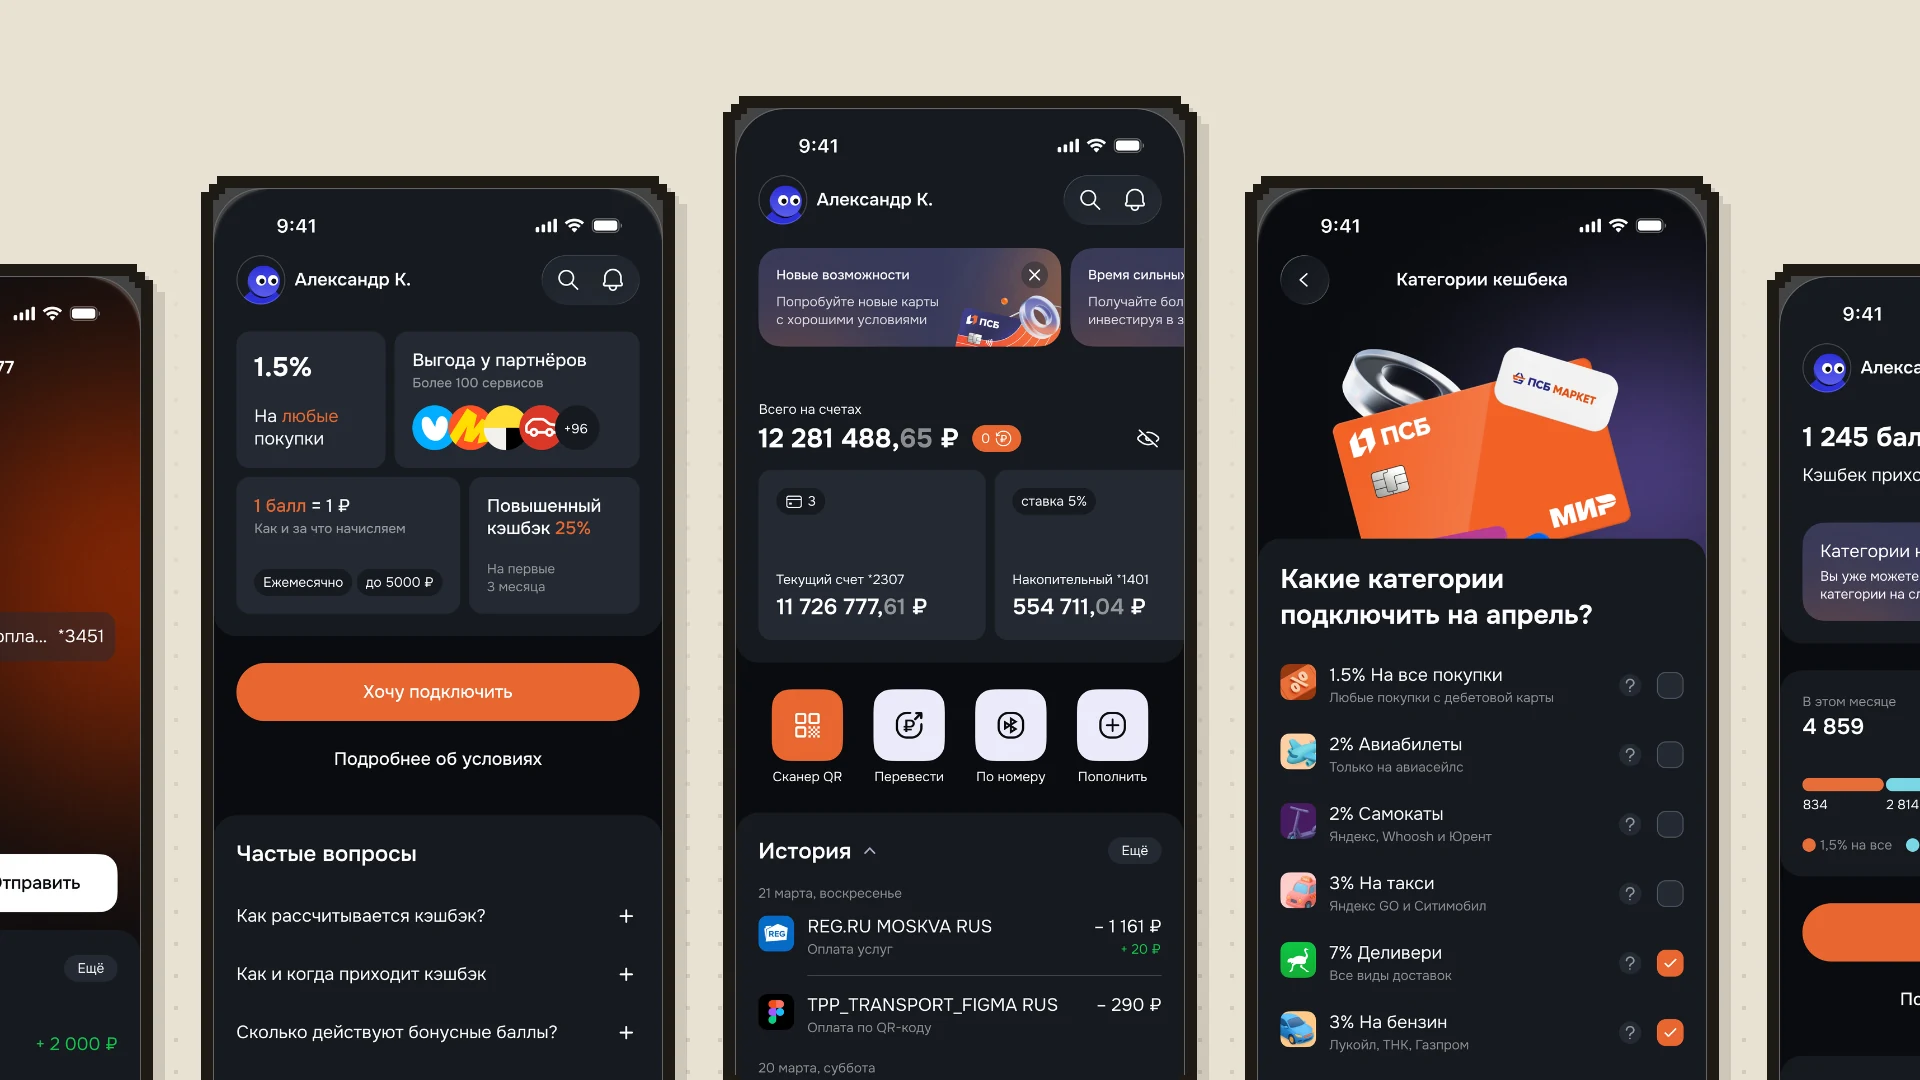
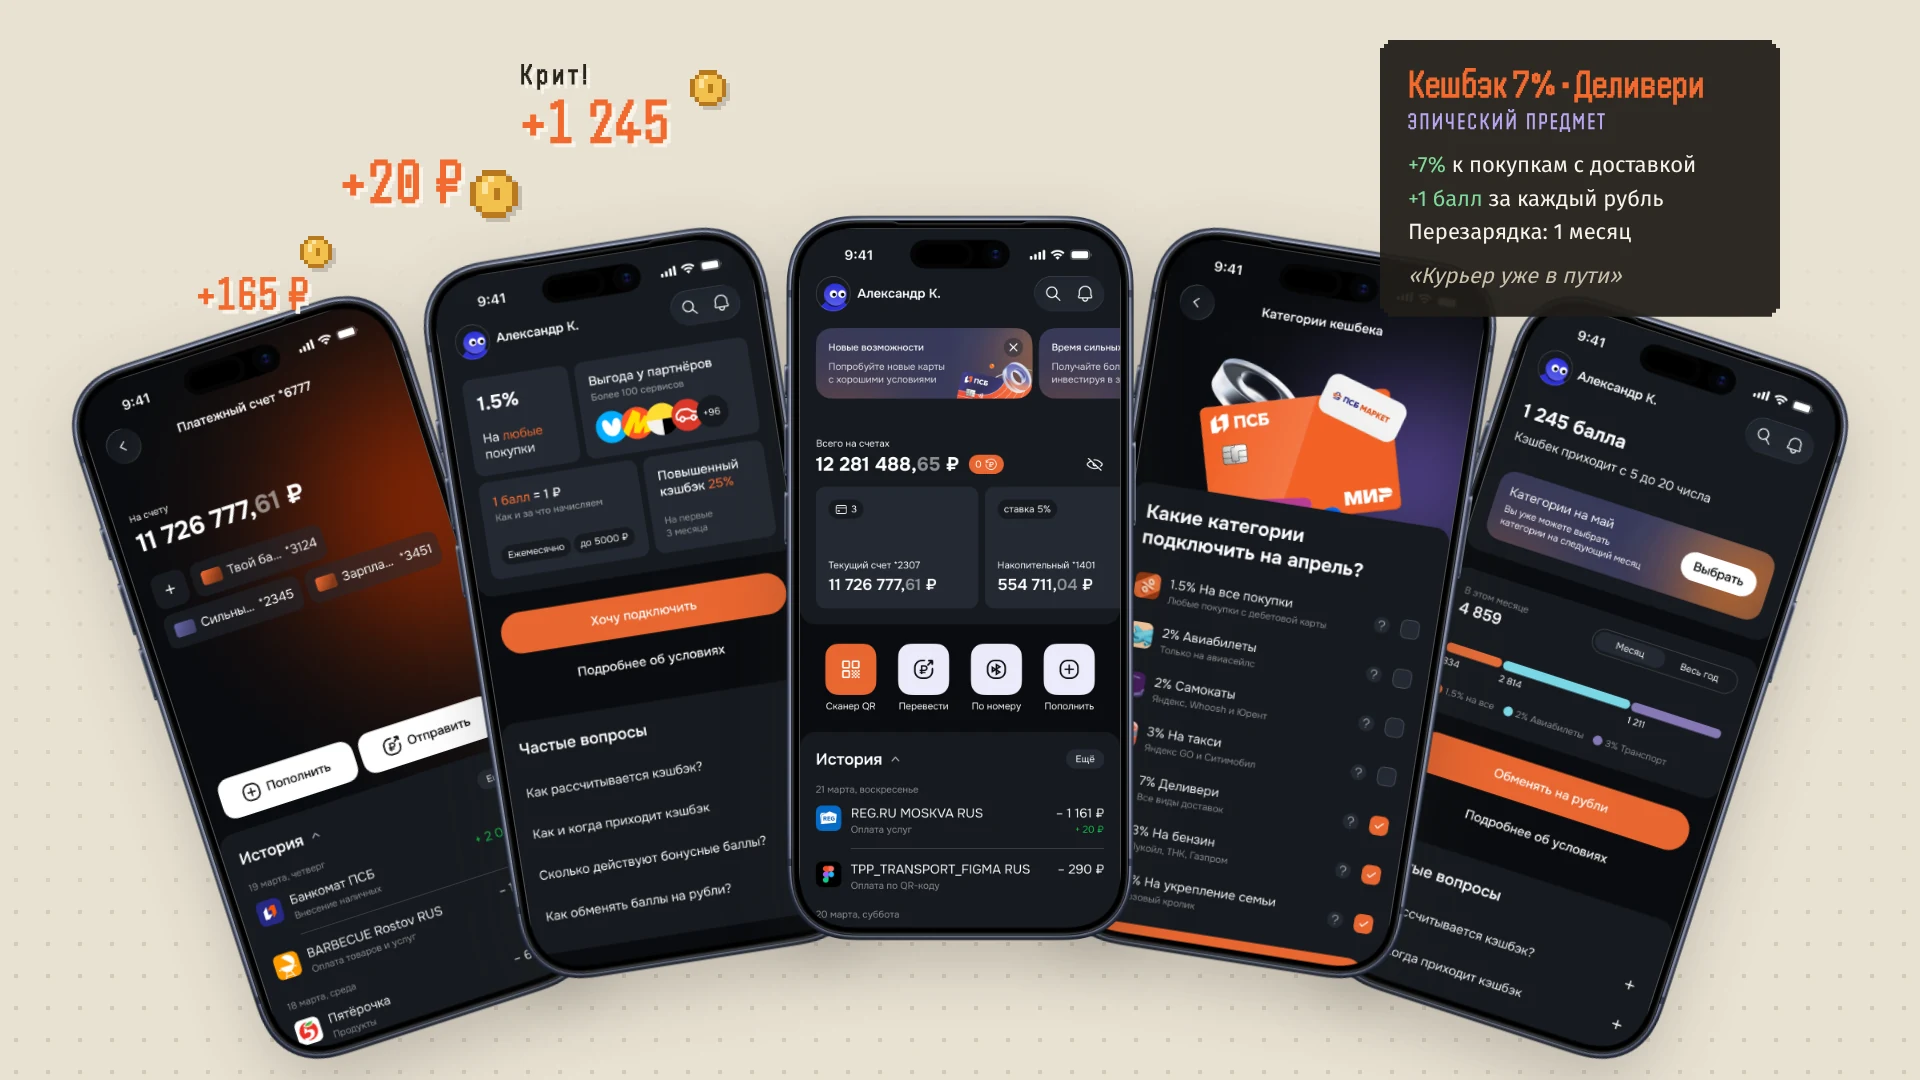
Redo the PSB cover as a fan of iPhone 17 Pro mockups
Screens sit in the iPhone 17 Pro body from the PSB Figma file and fan out
around a shared pivot. Cashback drops like MMORPG loot: floating +₽ numbers,
pixel coins and an item tooltip in the site's dark dialog style.

Claude-Session: https://claude.ai/code/session_019BMb4R2areoKUEhfSjMSAo

diff --git a/tools/case-covers/psb.html b/tools/case-covers/psb.html
@@ -4,22 +4,32 @@
   Render: open this file in a browser at a 1920×1080 viewport, take a screenshot and save it
   as WebP (quality ~88), e.g. Playwright page.screenshot() + any converter.
   Screens: frames from the "mockup for claude" section of the PSB Figma file, cropped to the
-  first 874pt of each frame and exported at 2x (tools/case-covers/psb/*.png).
+  first 874pt of each frame and exported at 2x (tools/case-covers/psb/*.png). The iPhone 17 Pro
+  body is the hidden "bezel" layer from the same file (450×920pt, screen inset 24/23pt).
+  Joke: cashback drops like loot in an MMORPG — floating "+₽" numbers, pixel coins and an item
+  tooltip in the site's dark dialog style.
   Colours mirror src/styles/tokens/colors.css. The card zooms the cover on hover,
   so keep the key content away from the edges.
 -->
 <html lang="ru">
   <head>
     <meta charset="utf-8" />
+    <link
+      rel="stylesheet"
+      href="https://fonts.googleapis.com/css2?family=Fira+Sans:wght@400;500&family=Handjet:wght@600;700&display=block"
+    />
     <style>
       :root {
-        --paper-0: #e7e0d0;
         --paper-3: #e8e1d2;
-        --paper-4: #ddd5c3;
+        --paper-2: #f7f3ea;
         --line-2: #cfc6b2;
         --ink-1: #29251e;
-        --bezel: #1d1a15;
-        --s: 8px; /* pixel corner step of the device body */
+        --dialog: rgba(33, 30, 24, 0.94);
+        --gold: #f2c14e;
+        --gold-dark: #b7791f;
+        --gold-light: #fbe39a;
+        --psb: #f26a2e;
+        --s: 4px; /* pixel corner step */
       }
       * {
         box-sizing: border-box;
@@ -71,68 +81,185 @@
           0 calc(100% - var(--s) * 2)
         );
       }
-      .row {
-        position: absolute;
-        left: 50%;
-        top: 0;
-        display: flex;
-        gap: 48px;
-        transform: translateX(-50%);
-      }
+
+      /* Fan: every phone shares one pivot far below the frame */
       .phone {
-        position: relative;
-        flex: none;
-        width: 474px;
-        /* Hard pixel shadow: the stepped silhouette offset down-right, no blur */
-        filter: drop-shadow(12px 12px 0 rgb(41 37 30 / 0.14));
+        --k: 0.8; /* scale from Figma points */
+        position: absolute;
+        left: calc(960px - 225px * var(--k));
+        top: 210px;
+        width: calc(450px * var(--k));
+        height: calc(920px * var(--k));
+        transform-origin: 50% 2400px;
+        transform: rotate(var(--a));
+        filter: drop-shadow(0 24px 32px rgb(41 37 30 / 0.22));
       }
-      .body {
-        position: relative;
-        padding: 12px;
-        background: var(--bezel);
-      }
-      .screen {
-        --s: 6px;
-        display: block;
-        width: 450px;
-        height: 979px; /* 402×874 screen at 1.12 */
+      .phone .screen {
+        position: absolute;
+        left: calc(24px * var(--k));
+        top: calc(23px * var(--k));
+        width: calc(402px * var(--k));
+        height: calc(874px * var(--k));
+        border-radius: calc(60px * var(--k));
         object-fit: cover;
         object-position: top;
       }
-      .phone:nth-child(1) {
-        margin-top: 264px;
+      .phone .body {
+        position: absolute;
+        inset: 0;
+        width: 100%;
+        height: 100%;
       }
-      .phone:nth-child(2) {
-        margin-top: 176px;
+      .p1 {
+        --a: -18deg;
+        z-index: 1;
       }
-      .phone:nth-child(3) {
-        margin-top: 96px;
+      .p2 {
+        --a: -9deg;
+        z-index: 2;
       }
-      .phone:nth-child(4) {
-        margin-top: 176px;
+      .p3 {
+        --a: 0deg;
+        z-index: 3;
       }
-      .phone:nth-child(5) {
-        margin-top: 264px;
+      .p4 {
+        --a: 9deg;
+        z-index: 2;
+      }
+      .p5 {
+        --a: 18deg;
+        z-index: 1;
+      }
+
+      /* Loot: floating numbers, like damage text over a game world */
+      .float {
+        position: absolute;
+        z-index: 5;
+        font:
+          700 64px/1 'Handjet',
+          monospace;
+        letter-spacing: 0.02em;
+        color: var(--psb);
+        text-shadow: 4px 4px 0 var(--paper-2);
+      }
+      .float small {
+        display: block;
+        font-size: 30px;
+        letter-spacing: 0.12em;
+        color: var(--ink-1);
+      }
+      .coin {
+        position: absolute;
+        z-index: 5;
+        width: 48px;
+        height: 48px;
+        filter: drop-shadow(4px 4px 0 rgb(41 37 30 / 0.18));
+      }
+
+      /* Item tooltip in the site's dialog style */
+      .tooltip {
+        position: absolute;
+        z-index: 6;
+        left: 1380px;
+        top: 40px;
+        width: 400px;
+        padding: 24px 28px 26px;
+        background: var(--dialog);
+        color: var(--paper-2);
+        font:
+          400 22px/1.35 'Fira Sans',
+          sans-serif;
+      }
+      .tooltip .name {
+        font:
+          700 40px/1 'Handjet',
+          monospace;
+        color: var(--psb);
+      }
+      .tooltip .rarity {
+        margin-top: 6px;
+        font:
+          600 24px/1 'Handjet',
+          monospace;
+        letter-spacing: 0.1em;
+        text-transform: uppercase;
+        color: #b9a6f2;
+      }
+      .tooltip ul {
+        margin: 16px 0 0;
+        padding: 0;
+        list-style: none;
+      }
+      .tooltip li + li {
+        margin-top: 4px;
+      }
+      .tooltip .plus {
+        color: #7fd99a;
+      }
+      .tooltip .flavor {
+        margin-top: 14px;
+        font-style: italic;
+        color: #c9bfab;
       }
     </style>
   </head>
   <body>
-    <div class="row">
-      <div class="phone">
-        <div class="body px"><img class="screen px" src="psb/account.png" alt="" /></div>
-      </div>
-      <div class="phone">
-        <div class="body px"><img class="screen px" src="psb/cb-off.png" alt="" /></div>
-      </div>
-      <div class="phone">
-        <div class="body px"><img class="screen px" src="psb/main.png" alt="" /></div>
-      </div>
-      <div class="phone">
-        <div class="body px"><img class="screen px" src="psb/cb-connect.png" alt="" /></div>
-      </div>
-      <div class="phone">
-        <div class="body px"><img class="screen px" src="psb/cb-on.png" alt="" /></div>
-      </div>
+    <div class="phone p1">
+      <img class="screen" src="psb/account.png" alt="" />
+      <img class="body" src="psb/iphone-17-pro.png" alt="" />
     </div>
+    <div class="phone p2">
+      <img class="screen" src="psb/cb-off.png" alt="" />
+      <img class="body" src="psb/iphone-17-pro.png" alt="" />
+    </div>
+    <div class="phone p3">
+      <img class="screen" src="psb/main.png" alt="" />
+      <img class="body" src="psb/iphone-17-pro.png" alt="" />
+    </div>
+    <div class="phone p4">
+      <img class="screen" src="psb/cb-connect.png" alt="" />
+      <img class="body" src="psb/iphone-17-pro.png" alt="" />
+    </div>
+    <div class="phone p5">
+      <img class="screen" src="psb/cb-on.png" alt="" />
+      <img class="body" src="psb/iphone-17-pro.png" alt="" />
+    </div>
+
+    <div class="float" style="left: 340px; top: 150px">+20 ₽</div>
+    <div class="float" style="left: 196px; top: 270px; font-size: 48px">+165 ₽</div>
+    <div class="float" style="left: 520px; top: 60px"><small>Крит!</small>+1 245</div>
+
+    <svg class="coin" style="left: 470px; top: 170px" viewBox="0 0 8 8"><use href="#coin" /></svg>
+    <svg class="coin" style="left: 300px; top: 236px; width: 32px; height: 32px" viewBox="0 0 8 8">
+      <use href="#coin" />
+    </svg>
+    <svg class="coin" style="left: 690px; top: 70px; width: 36px; height: 36px" viewBox="0 0 8 8">
+      <use href="#coin" />
+    </svg>
+
+    <div class="tooltip px">
+      <div class="name">Кешбэк 7% · Деливери</div>
+      <div class="rarity">Эпический предмет</div>
+      <ul>
+        <li><span class="plus">+7%</span> к покупкам с доставкой</li>
+        <li><span class="plus">+1 балл</span> за каждый рубль</li>
+        <li>Перезарядка: 1 месяц</li>
+      </ul>
+      <div class="flavor">«Курьер уже в пути»</div>
+    </div>
+
+    <svg width="0" height="0" style="position: absolute">
+      <defs>
+        <g id="coin" shape-rendering="crispEdges">
+          <path
+            fill="#b7791f"
+            d="M2 0h4v1H2zM1 1h1v1H1zM6 1h1v1H6zM0 2h1v4H0zM7 2h1v4H7zM1 6h1v1H1zM6 6h1v1H6zM2 7h4v1H2z"
+          />
+          <path fill="#f2c14e" d="M2 1h4v1H2zM1 2h6v4H1zM2 6h4v1H2z" />
+          <path fill="#fbe39a" d="M2 2h1v2H2zM3 1h1v1H3z" />
+          <path fill="#b7791f" d="M4 3h1v2H4z" />
+        </g>
+      </defs>
+    </svg>
   </body>
 </html>
